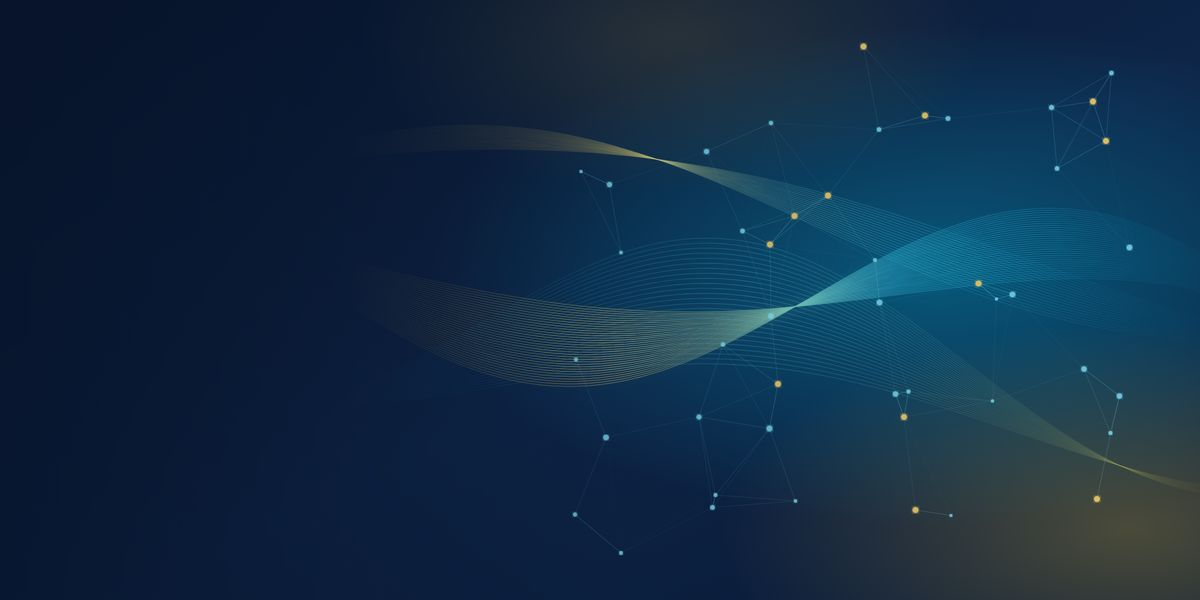
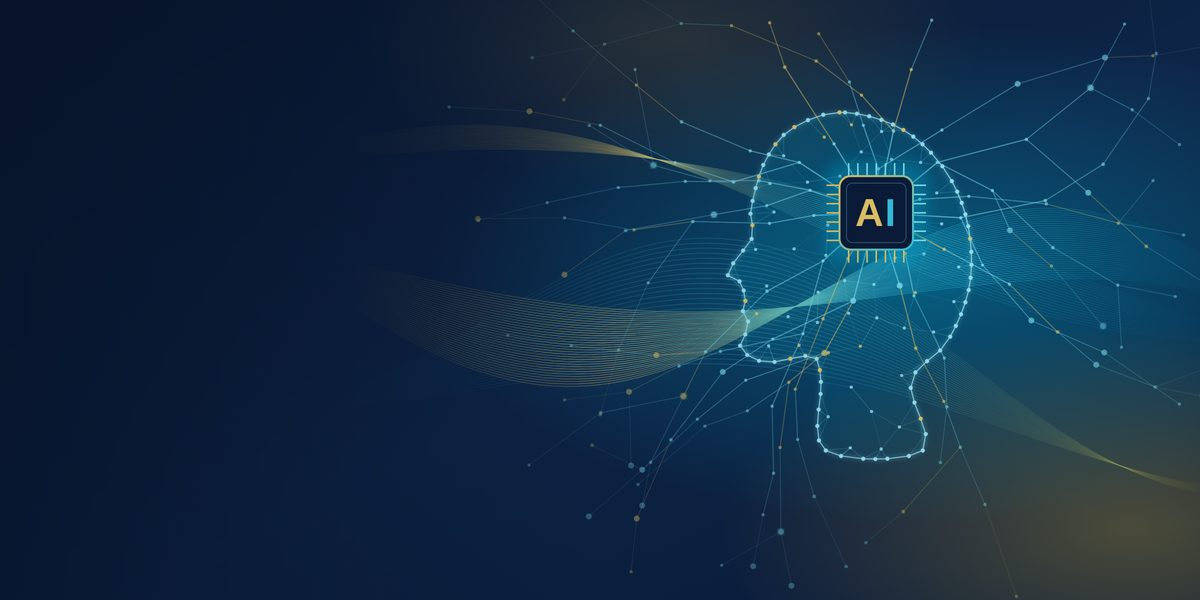
Add files via upload

diff --git a/styles.css b/styles.css
@@ -49,7 +49,7 @@
 
 /* ===== About page ===== */
 .primary-nav a[aria-current="page"]{color:var(--cyan)}
-.page-hero{color:#fff;padding:92px 0 76px;background:linear-gradient(90deg,rgba(7,20,43,.62),rgba(7,20,43,.1) 70%),url("assets/hero-bg.jpg") center right/cover no-repeat,#08152c;position:relative}
+.page-hero{color:#fff;padding:92px 0 76px;background:linear-gradient(90deg,rgba(7,20,43,.62),rgba(7,20,43,.1) 70%),url("assets/page-bg.jpg") center right/cover no-repeat,#08152c;position:relative}
 .page-hero h1{font-size:clamp(30px,4vw,48px);line-height:1.35;letter-spacing:-.05em;margin:0 0 18px;font-weight:800}
 .page-hero h1 span{color:var(--gold-light)}
 .page-lead{font-size:15px;line-height:1.9;color:#c9d5e6;max-width:520px;margin:0}
@@ -154,3 +154,13 @@ html{scroll-padding-top:140px}
 @media(max-width:900px){.ci-grid{grid-template-columns:1fr}.ci-symbol{max-width:340px}}
 
 .intro-copy p:last-child{margin-bottom:0}
+
+/* Korean text wraps at word (어절) boundaries; very long strings still break instead of overflowing */
+body{word-break:keep-all;overflow-wrap:break-word}
+
+/* Hero artwork (humanoid profile + AI chip): on small screens it sits at the bottom so text stays readable */
+@media(max-width:700px){.hero{padding-bottom:250px;background:linear-gradient(180deg,#08152c 0%,rgba(8,21,44,.96) 38%,rgba(8,21,44,0) 72%),url("assets/hero-bg-sm.jpg") -430px 100%/900px auto no-repeat,#08152c}}
+
+/* Header logo lockup: larger HAPPY NURI wordmark */
+.brand-original img{height:48px}
+@media(max-width:700px){.brand-original img{height:40px}}

diff --git a/about.html b/about.html
@@ -18,7 +18,7 @@
   <a class="skip-link" href="#main">본문 바로가기</a>
   <header class="site-header">
     <div class="container nav-wrap">
-      <a class="brand brand-original" href="index.html#home" aria-label="해피누리 홈"><img src="assets/happy-nuri-logo-horizontal.png" width="900" height="285" alt="HAPPY NURI 해피누리"></a>
+      <a class="brand brand-original" href="index.html#home" aria-label="해피누리 홈"><img src="assets/happy-nuri-logo-horizontal.png" width="1000" height="229" alt="HAPPY NURI 해피누리"></a>
       <button class="menu-toggle" aria-label="메뉴 열기" aria-expanded="false" aria-controls="primary-nav"><span></span><span></span><span></span></button>
       <nav id="primary-nav" class="primary-nav" aria-label="주요 메뉴">
         <a href="about.html" aria-current="page">회사 소개</a>
@@ -165,7 +165,7 @@
   <footer class="site-footer" id="footer">
     <div class="container footer-compact">
       <a class="brand brand-original footer-brand" href="index.html#home" aria-label="해피누리 홈">
-        <img src="assets/happy-nuri-logo-light.png" width="900" height="690" alt="HAPPY NURI 해피누리">
+        <img src="assets/happy-nuri-logo-en-light.png" width="900" height="554" alt="HAPPY NURI 해피누리">
       </a>
       <div class="footer-company-info" aria-label="회사 정보">
         <span><strong>상호명</strong> 해피누리</span>

diff --git a/index.html b/index.html
@@ -18,7 +18,7 @@
   <a class="skip-link" href="#main">본문 바로가기</a>
   <header class="site-header">
     <div class="container nav-wrap">
-      <a class="brand brand-original" href="#home" aria-label="해피누리 홈"><img src="assets/happy-nuri-logo-horizontal.png" width="900" height="285" alt="HAPPY NURI 해피누리"></a>
+      <a class="brand brand-original" href="#home" aria-label="해피누리 홈"><img src="assets/happy-nuri-logo-horizontal.png" width="1000" height="229" alt="HAPPY NURI 해피누리"></a>
       <button class="menu-toggle" aria-label="메뉴 열기" aria-expanded="false" aria-controls="primary-nav"><span></span><span></span><span></span></button>
       <nav id="primary-nav" class="primary-nav" aria-label="주요 메뉴">
         <a href="about.html">회사 소개</a>
@@ -127,7 +127,7 @@
   <footer class="site-footer" id="footer">
     <div class="container footer-compact">
       <a class="brand brand-original footer-brand" href="#home" aria-label="해피누리 홈">
-        <img src="assets/happy-nuri-logo-light.png" width="900" height="690" alt="HAPPY NURI 해피누리">
+        <img src="assets/happy-nuri-logo-en-light.png" width="900" height="554" alt="HAPPY NURI 해피누리">
       </a>
       <div class="footer-company-info" aria-label="회사 정보">
         <span><strong>상호명</strong> 해피누리</span>

diff --git a/README.md b/README.md
@@ -1,4 +1,4 @@
-# 해피누리 홈페이지 (v15 · 회사소개 페이지 추가)
+# 해피누리 홈페이지 (v19 · 회사소개 페이지 추가)
 
 정적 반응형 홈페이지입니다. GitHub Pages에 배포할 수 있습니다.
 
@@ -14,7 +14,8 @@
 - `assets/happy-nuri-symbol.png`: 심벌만 투명 배경
 - `assets/favicon.png`, `favicon-48.png`, `apple-touch-icon.png`: 심벌 기반 아이콘 (apple-touch-icon만 네이비 배경)
 - `assets/happy-nuri-logo-original.png`, `-symbol-original.png`, `-reference.jpg`: 투명 처리 전 원본 (사이트에서는 사용하지 않음, 보관용)
-- `assets/hero-bg.jpg` / `hero-bg-sm.jpg`: 히어로 배경 이미지 (PC 2400×1200 / 모바일 1200×600, 로고의 금색·청록 리본과 연결망 모티브)
+- `assets/hero-bg.jpg` / `hero-bg-sm.jpg`: 히어로 배경 이미지 (PC 2400×1200 / 모바일 1200×600, 사람 옆모습 + AI 칩 두뇌 + 사방으로 뻗는 지능망)
+- `assets/page-bg.jpg`: 회사소개 페이지 상단 배경 (금색·청록 리본과 연결망)
 - `assets/signature.png`: 대표 인사말 옆 자필 서명 (투명 PNG, 같은 이름으로 교체 가능)
 - `assets/favicon.svg`: 구버전 CSS 모사 아이콘 (사용하지 않음)
 
